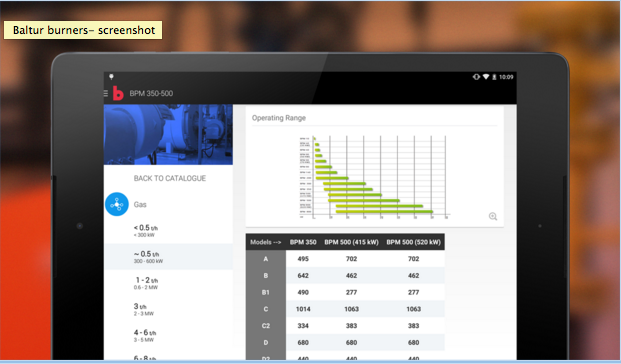
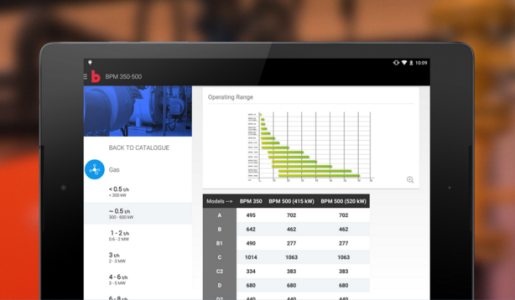
Resized screenshots images

diff --git a/README.md b/README.md
@@ -132,11 +132,11 @@ Links
 
 - Demo application available on [Google Play](https://play.google.com/store/apps/details?id=be.delhaize)
 
-![Screenshot](https://raw.githubusercontent.com/dfpalomar/treenav/master/Screenshots/delhaize_phone_menu.png)
-![Screenshot](https://raw.githubusercontent.com/dfpalomar/treenav/master/Screenshots/delhaize_tablet_menu.png)
-![Screenshot](https://raw.githubusercontent.com/dfpalomar/treenav/master/Screenshots/delhaize_tablet_menu_categories.png)
-![Screenshot](https://raw.githubusercontent.com/dfpalomar/treenav/master/Screenshots/baltur_phone_menu.png)
-![Screenshot](https://raw.githubusercontent.com/dfpalomar/treenav/master/Screenshots/baltur_tablet_menu.png)
+![Screenshot](./Screenshots/delhaize_phone_menu.png)
+![Screenshot](./Screenshots/delhaize_tablet_menu.png)
+![Screenshot](./Screenshots/delhaize_tablet_menu_categories.png)
+![Screenshot](./Screenshots/baltur_phone_menu.png)
+![Screenshot](./Screenshots/baltur_tablet_menu.png)
 
 License
 -------
